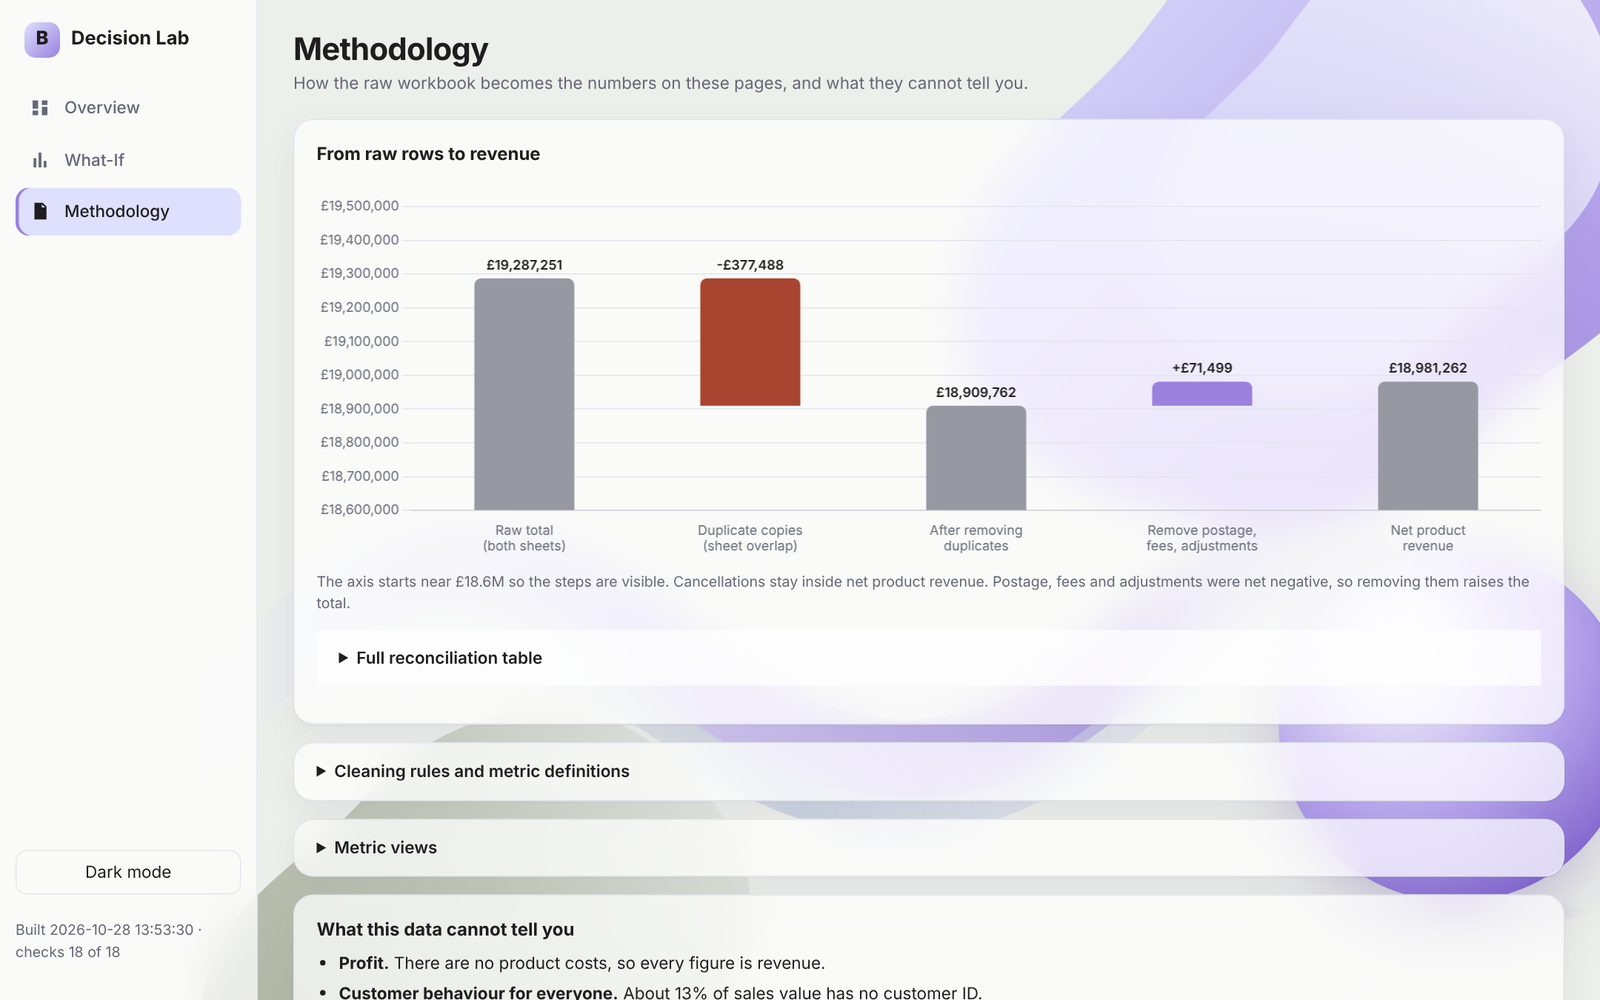
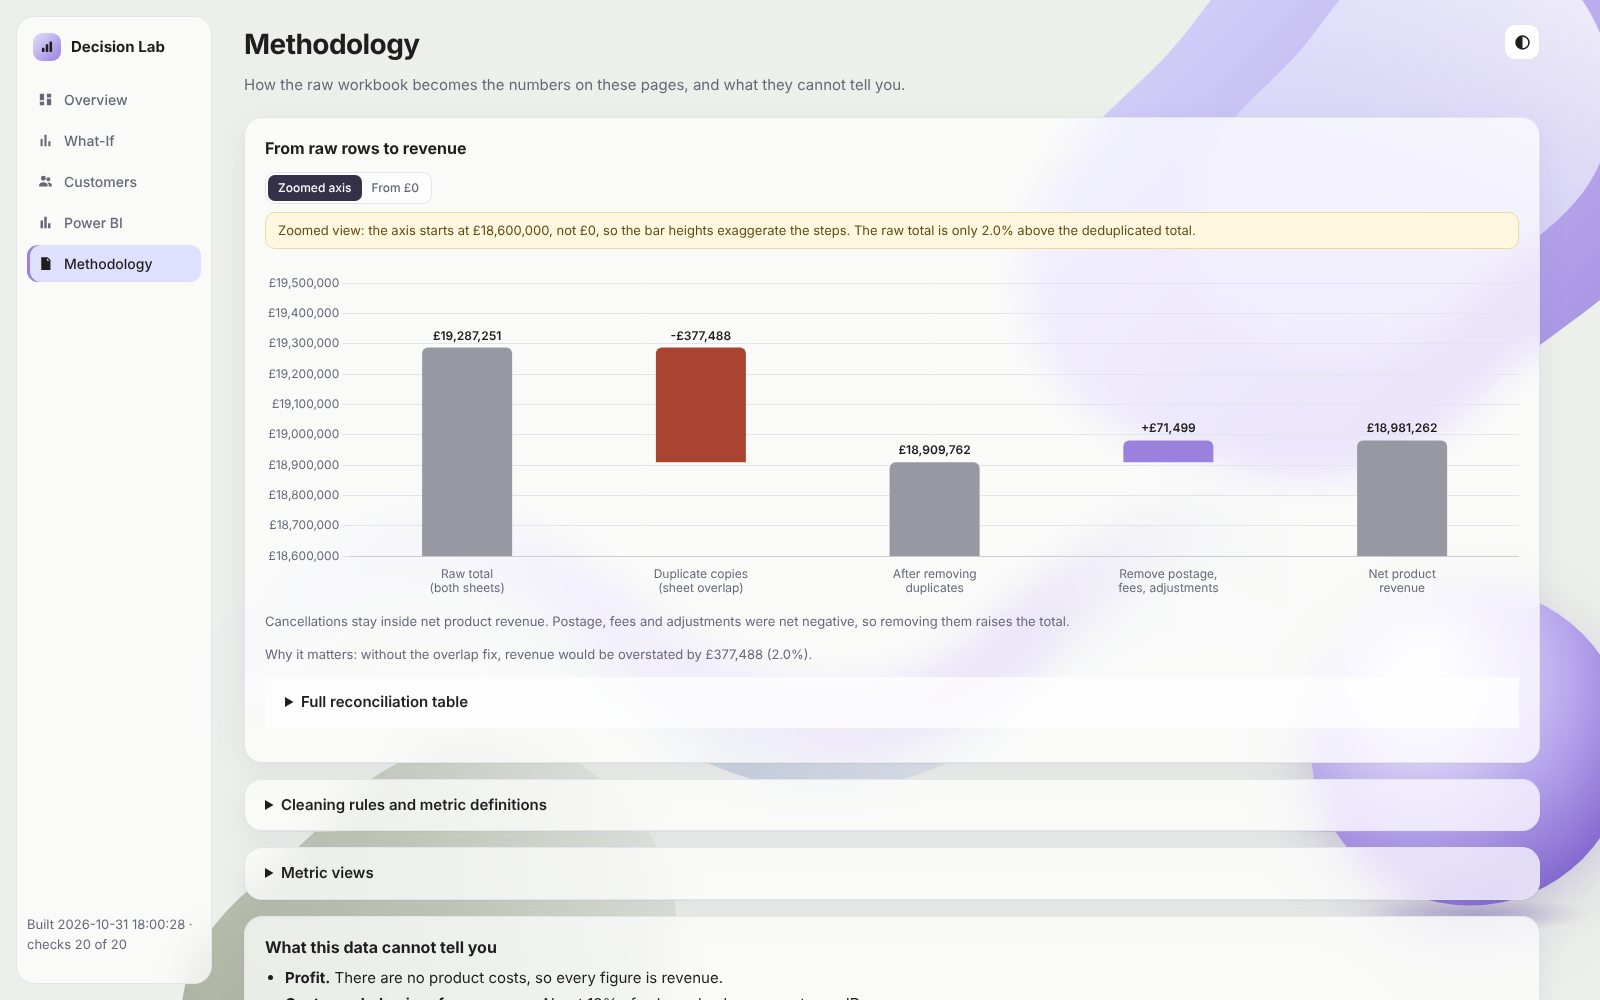
Retake screenshots, add Customers screenshot, state the What-If cost assumption

diff --git a/web/index.html b/web/index.html
@@ -122,7 +122,7 @@
         <ul class="plain">
           <li><b>Gross sales</b> = baseline gross × (1 + price change) × (1 + volume change)</li>
           <li><b>Net revenue</b> = gross × (1 − baseline cancellation rate)</li>
-          <li><b>Cost</b> = cost share × baseline net revenue × (1 + volume change); unit cost unchanged</li>
+          <li><b>Cost</b> = cost share × baseline net revenue × (1 + volume change); unit cost unchanged. Cost is applied to net revenue, so goods that were cancelled are assumed to cost nothing (they are treated as returned to stock).</li>
           <li><b>Profit</b> = net revenue − cost</li>
           <li><b>Break-even volume</b> = (1 − cost share) / (1 + price change − cost share) − 1</li>
         </ul>

diff --git a/pages/2_What_If_Simulator.py b/pages/2_What_If_Simulator.py
@@ -91,7 +91,7 @@ with st.expander("How the numbers are calculated"):
     st.markdown("""
 - **Gross sales** = baseline gross x (1 + price change) x (1 + volume change).
 - **Net revenue** = gross x (1 - baseline cancellation rate).
-- **Cost** = cost share x baseline net revenue x (1 + volume change). Unit cost is assumed unchanged.
+- **Cost** = cost share x baseline net revenue x (1 + volume change). Unit cost is assumed unchanged. Cost is applied to net revenue, so goods that were cancelled are assumed to cost nothing (returned to stock).
 - **Profit** = net revenue - cost.
 - **Break-even volume** = (1 - cost share) / (1 + price change - cost share) - 1.
 """)

diff --git a/README.md b/README.md
@@ -97,6 +97,10 @@ steps to rebuild it are in `docs/powerbi/build_guide.md`.
 
 ![What-If calculator](docs/screenshots/web-whatif.png)
 
+**Customers: cohort retention (share and customer count), RFM segments, concentration**
+
+![Customers page](docs/screenshots/web-customers.png)
+
 **Methodology: from raw rows to net revenue**
 
 ![Reconciliation chart](docs/screenshots/web-methodology.png)
